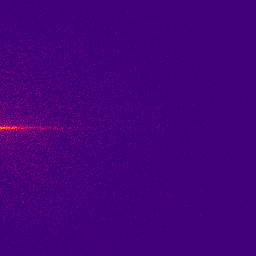
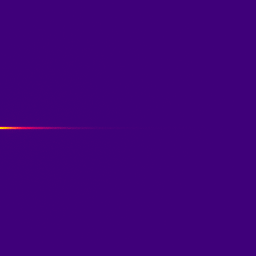
Improved Neutron injection step

diff --git a/simulations/phase/src/bin/neutrons.rs b/simulations/phase/src/bin/neutrons.rs
@@ -52,8 +52,10 @@ fn my_engine(_i: usize, rng: &mut ThreadRng, model: &Model, data: &mut Data) {
 
     // Inject the neutron into the model.
     let dist_side = model.grid.boundary.dist_side(&neutron.ray);
-    if let Some((dist, Outside(_norm))) = dist_side {
-        neutron.travel(dist + model.bump_dist);
+    if let Some((dist, side)) = dist_side {
+        if !side.is_inside() {
+            neutron.travel(dist + model.bump_dist);
+        }
     } else {
         panic!("Failed to inject neutron into the grid.")
     }

diff --git a/simulations/phase/src/parameters.rs b/simulations/phase/src/parameters.rs
@@ -50,7 +50,9 @@ impl Parameters {
         ));
         let mut params: Parameters =
             serde_json::from_str(&contents).expect("Invalid parameters file");
+        println!("Gun spread: {} deg", params.gun_spread);
         params.gun_spread *= PI / 180.0;
+        println!("Gun spread: {} rad", params.gun_spread);
         params
     }
 }
